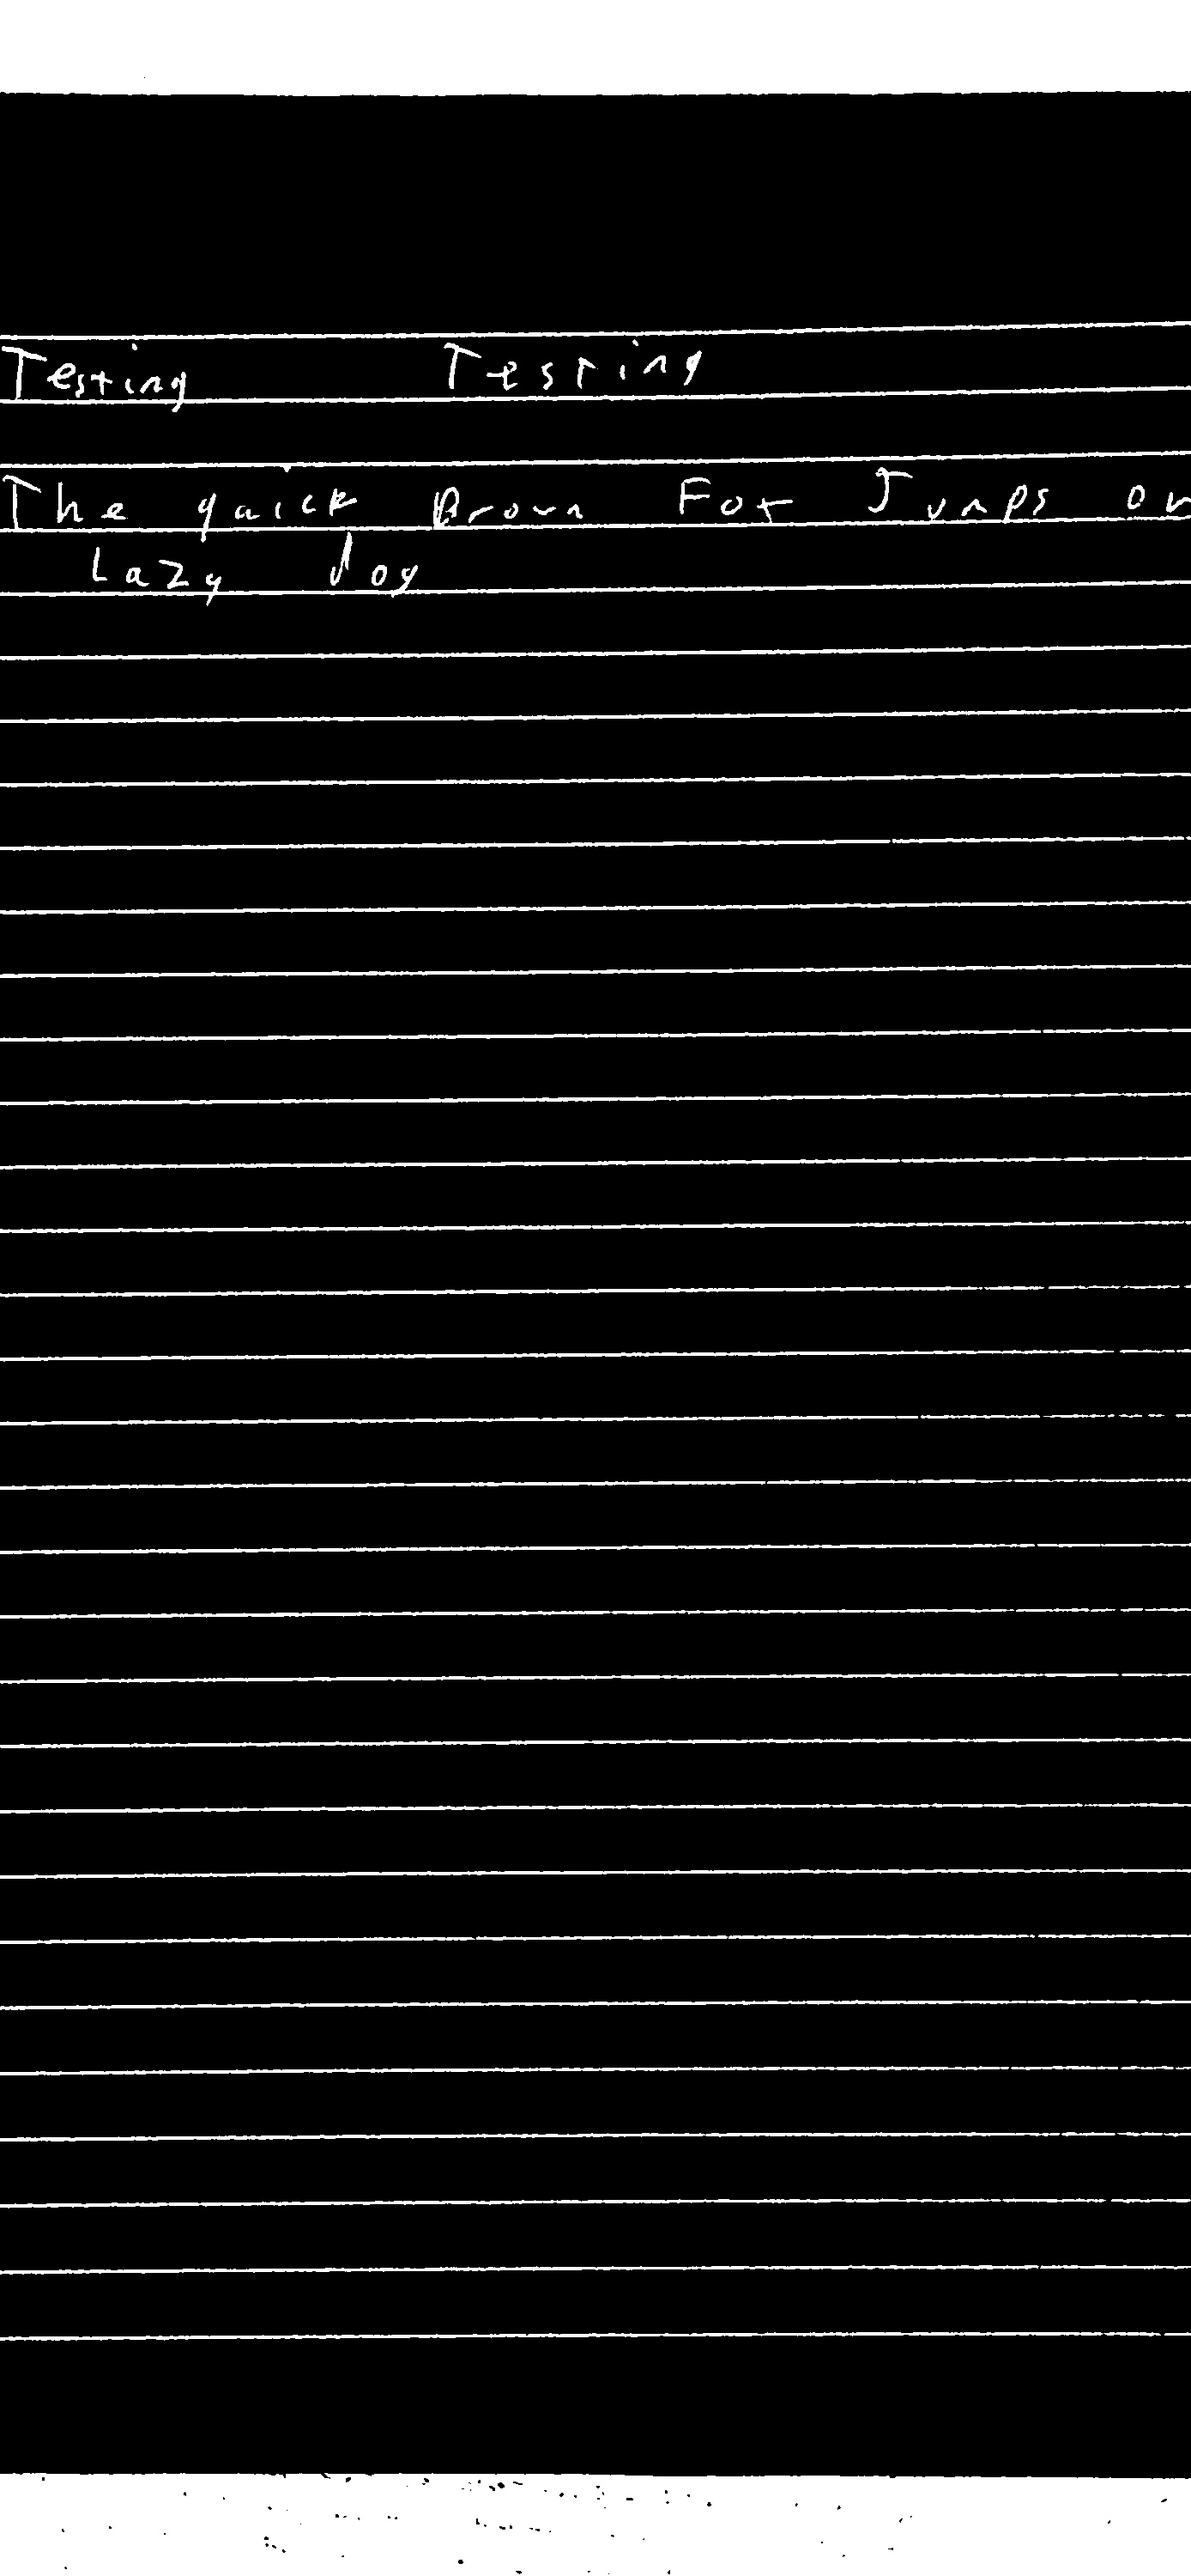
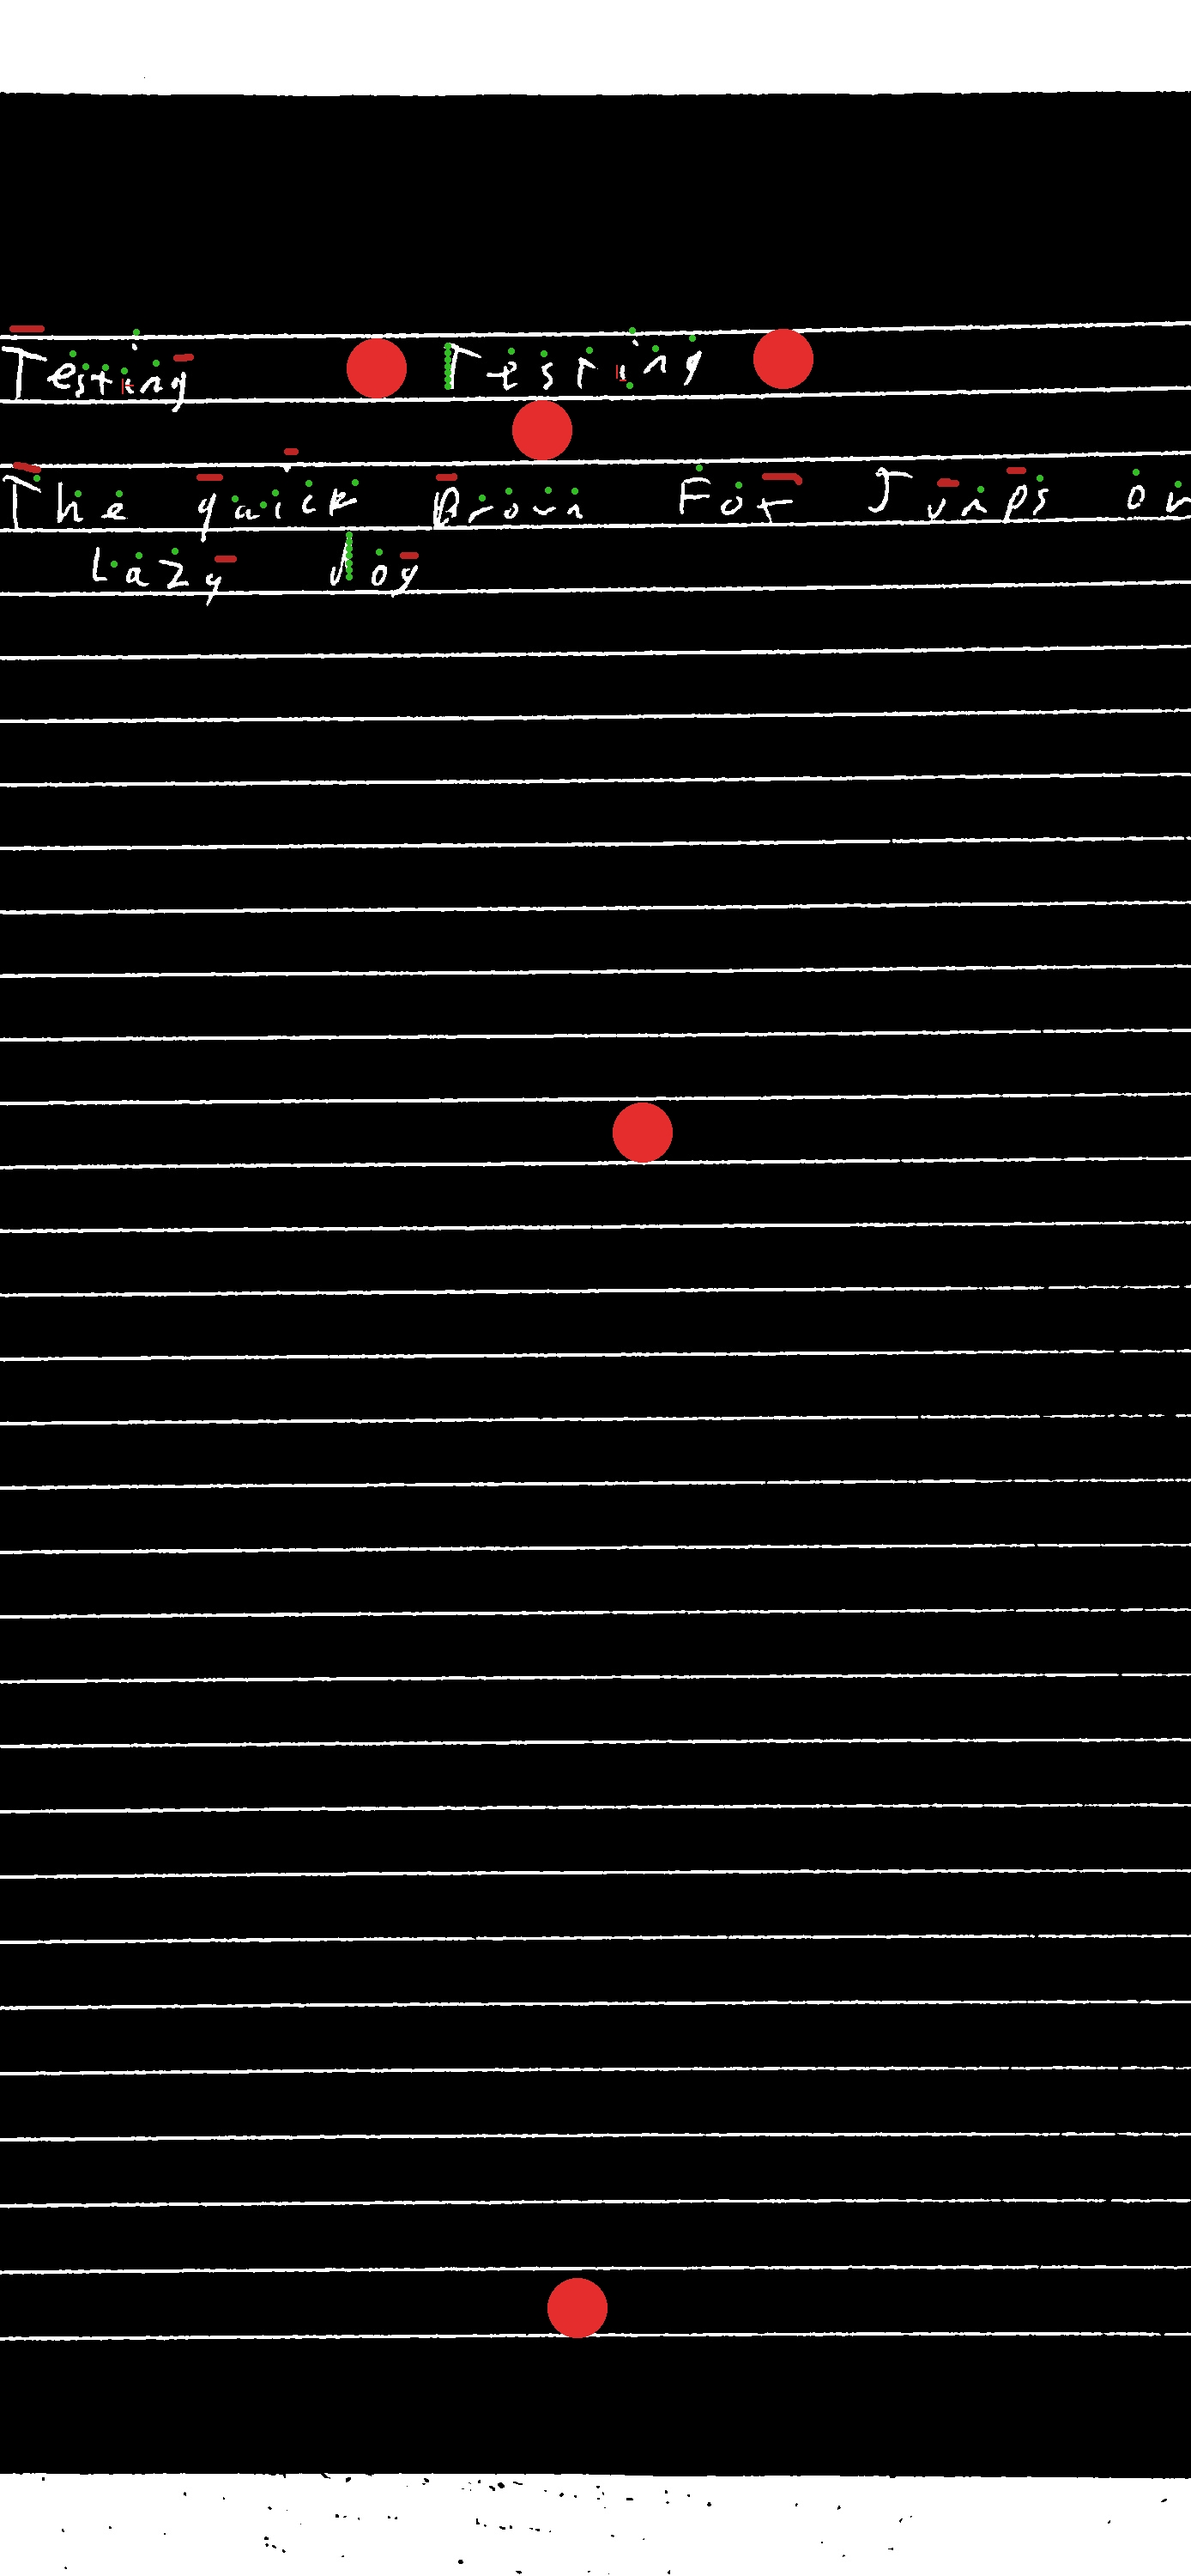
Add code to join 2 part letters

diff --git a/segment_scans.py b/segment_scans.py
@@ -2,7 +2,6 @@ import os
 import cv2
 import numpy
 
-
 images_binarised_npy = r"C:\Users\rafee\PycharmProjects\handwriting-project-epq\images\images_binarised_npy"
 
 
@@ -15,11 +14,13 @@ class Component:
         self.area = area
         self.centroid = centroid
 
+
 def connected_components_analysis(picture_name):
-    image = numpy.load(os.path.join(images_binarised_npy, picture_name)) #loads the .npy file)
-    num_of_labels, labels, stats, centroids = cv2.connectedComponentsWithStats(image, connectivity=8) # connectivity refers to whether pixels diagonally adjacent are considered connected. On setting 8, they are.
-    min_size = 5*5
-    max_size = 50*50 # if its larger or smaller its likely noise rather than a letter
+    image = numpy.load(os.path.join(images_binarised_npy, picture_name))  #loads the .npy file)
+    num_of_labels, labels, stats, centroids = cv2.connectedComponentsWithStats(image,
+                                                                               connectivity=8)  # connectivity refers to whether pixels diagonally adjacent are considered connected. On setting 8, they are.
+    min_size = 5 * 5
+    max_size = 50 * 50  # if its larger or smaller its likely noise rather than a letter
     components_list = []
     for component in range(1, num_of_labels):
         x = stats[component, cv2.CC_STAT_LEFT]
@@ -28,16 +29,51 @@ def connected_components_analysis(picture_name):
         height = stats[component, cv2.CC_STAT_HEIGHT]
         area = stats[component, cv2.CC_STAT_AREA]
         centroid = centroids[component]
-        if 3 < width < 50 and 5 < height < 50 and min_size < area < max_size :
+        if 3 < width < 50 and 5 < height < 60 and min_size < area < max_size:
             components_list.append(Component(x, y, width, height, area, centroid))
     return components_list
 
-i = 0
-for component in connected_components_analysis("Scan - 2025-12-28 16_02_44.npy"):
-    print(i, component.area, component.width, component.height, component.centroid)
-    i = i + 1
-print("components:", i)
 
+# i = 0
+# for component in connected_components_analysis("Scan - 2025-12-28 16_02_44.npy"):
+#     print(i, component.area, component.width, component.height, component.centroid)
+#     i = i + 1
+# print("components:", i)
+
+
+def join_2_part_letters(components):  # this function joins the tittles in i and j to their stubs
+    potential_stubs = []
+    potential_tittles = []
+    for component in components:
+        if component.height / component.width > 1.6 and component.height < 40:  # if more than 1.8x as tall as wide, it's probably a stub
+            potential_stubs.append(component)
+        elif component.area < 60:
+            potential_tittles.append(component)  # if less than 60px in total, it's probably a tittle
+    potential_stubs = sorted(potential_stubs, key=lambda component: component.centroid[0])
+    potential_tittles = sorted(potential_tittles, key=lambda component: component.centroid[0])  #
+
+    pairings = {}
+    for stub in potential_stubs:
+        for tittle in potential_tittles:
+            if (
+                    stub.x - 50 < tittle.x < stub.x + 50) and stub.y - 60 < tittle.y < stub.y:  # compares all tittles to the parameters they must meet to be joined
+                pairings[stub] = tittle
+                potential_tittles.remove(tittle)
+
+    for stub, tittle in pairings.items():
+        leftmost_point = min(stub.x, tittle.x)
+        rightmost_point = max(stub.x + tittle.width, tittle.x + tittle.width)
+        highest_point = min(stub.y, tittle.y)
+        lowest_point = max(stub.y + stub.height, tittle.y + tittle.height)
+        new_width = rightmost_point - leftmost_point
+        new_height = lowest_point - highest_point  # working out the dimensions of the new component
+        stub.x = leftmost_point
+        stub.y = highest_point
+        stub.width = new_width
+        stub.height = new_height
+        components.remove(tittle)  # assigns the dimensions to the stub, removes the tittle, effectively combining them into one component.
+
+    return components
 
 def look_through_npys():
     # loops through all npy files in the folder
@@ -48,6 +84,9 @@ def look_through_npys():
         cv2.imshow(filename, image)
         cv2.waitKey(0)  #waits for a key press before moving
         cv2.destroyAllWindows()
-look_through_npys()
+
+
+# look_through_npys()
+
 
 
